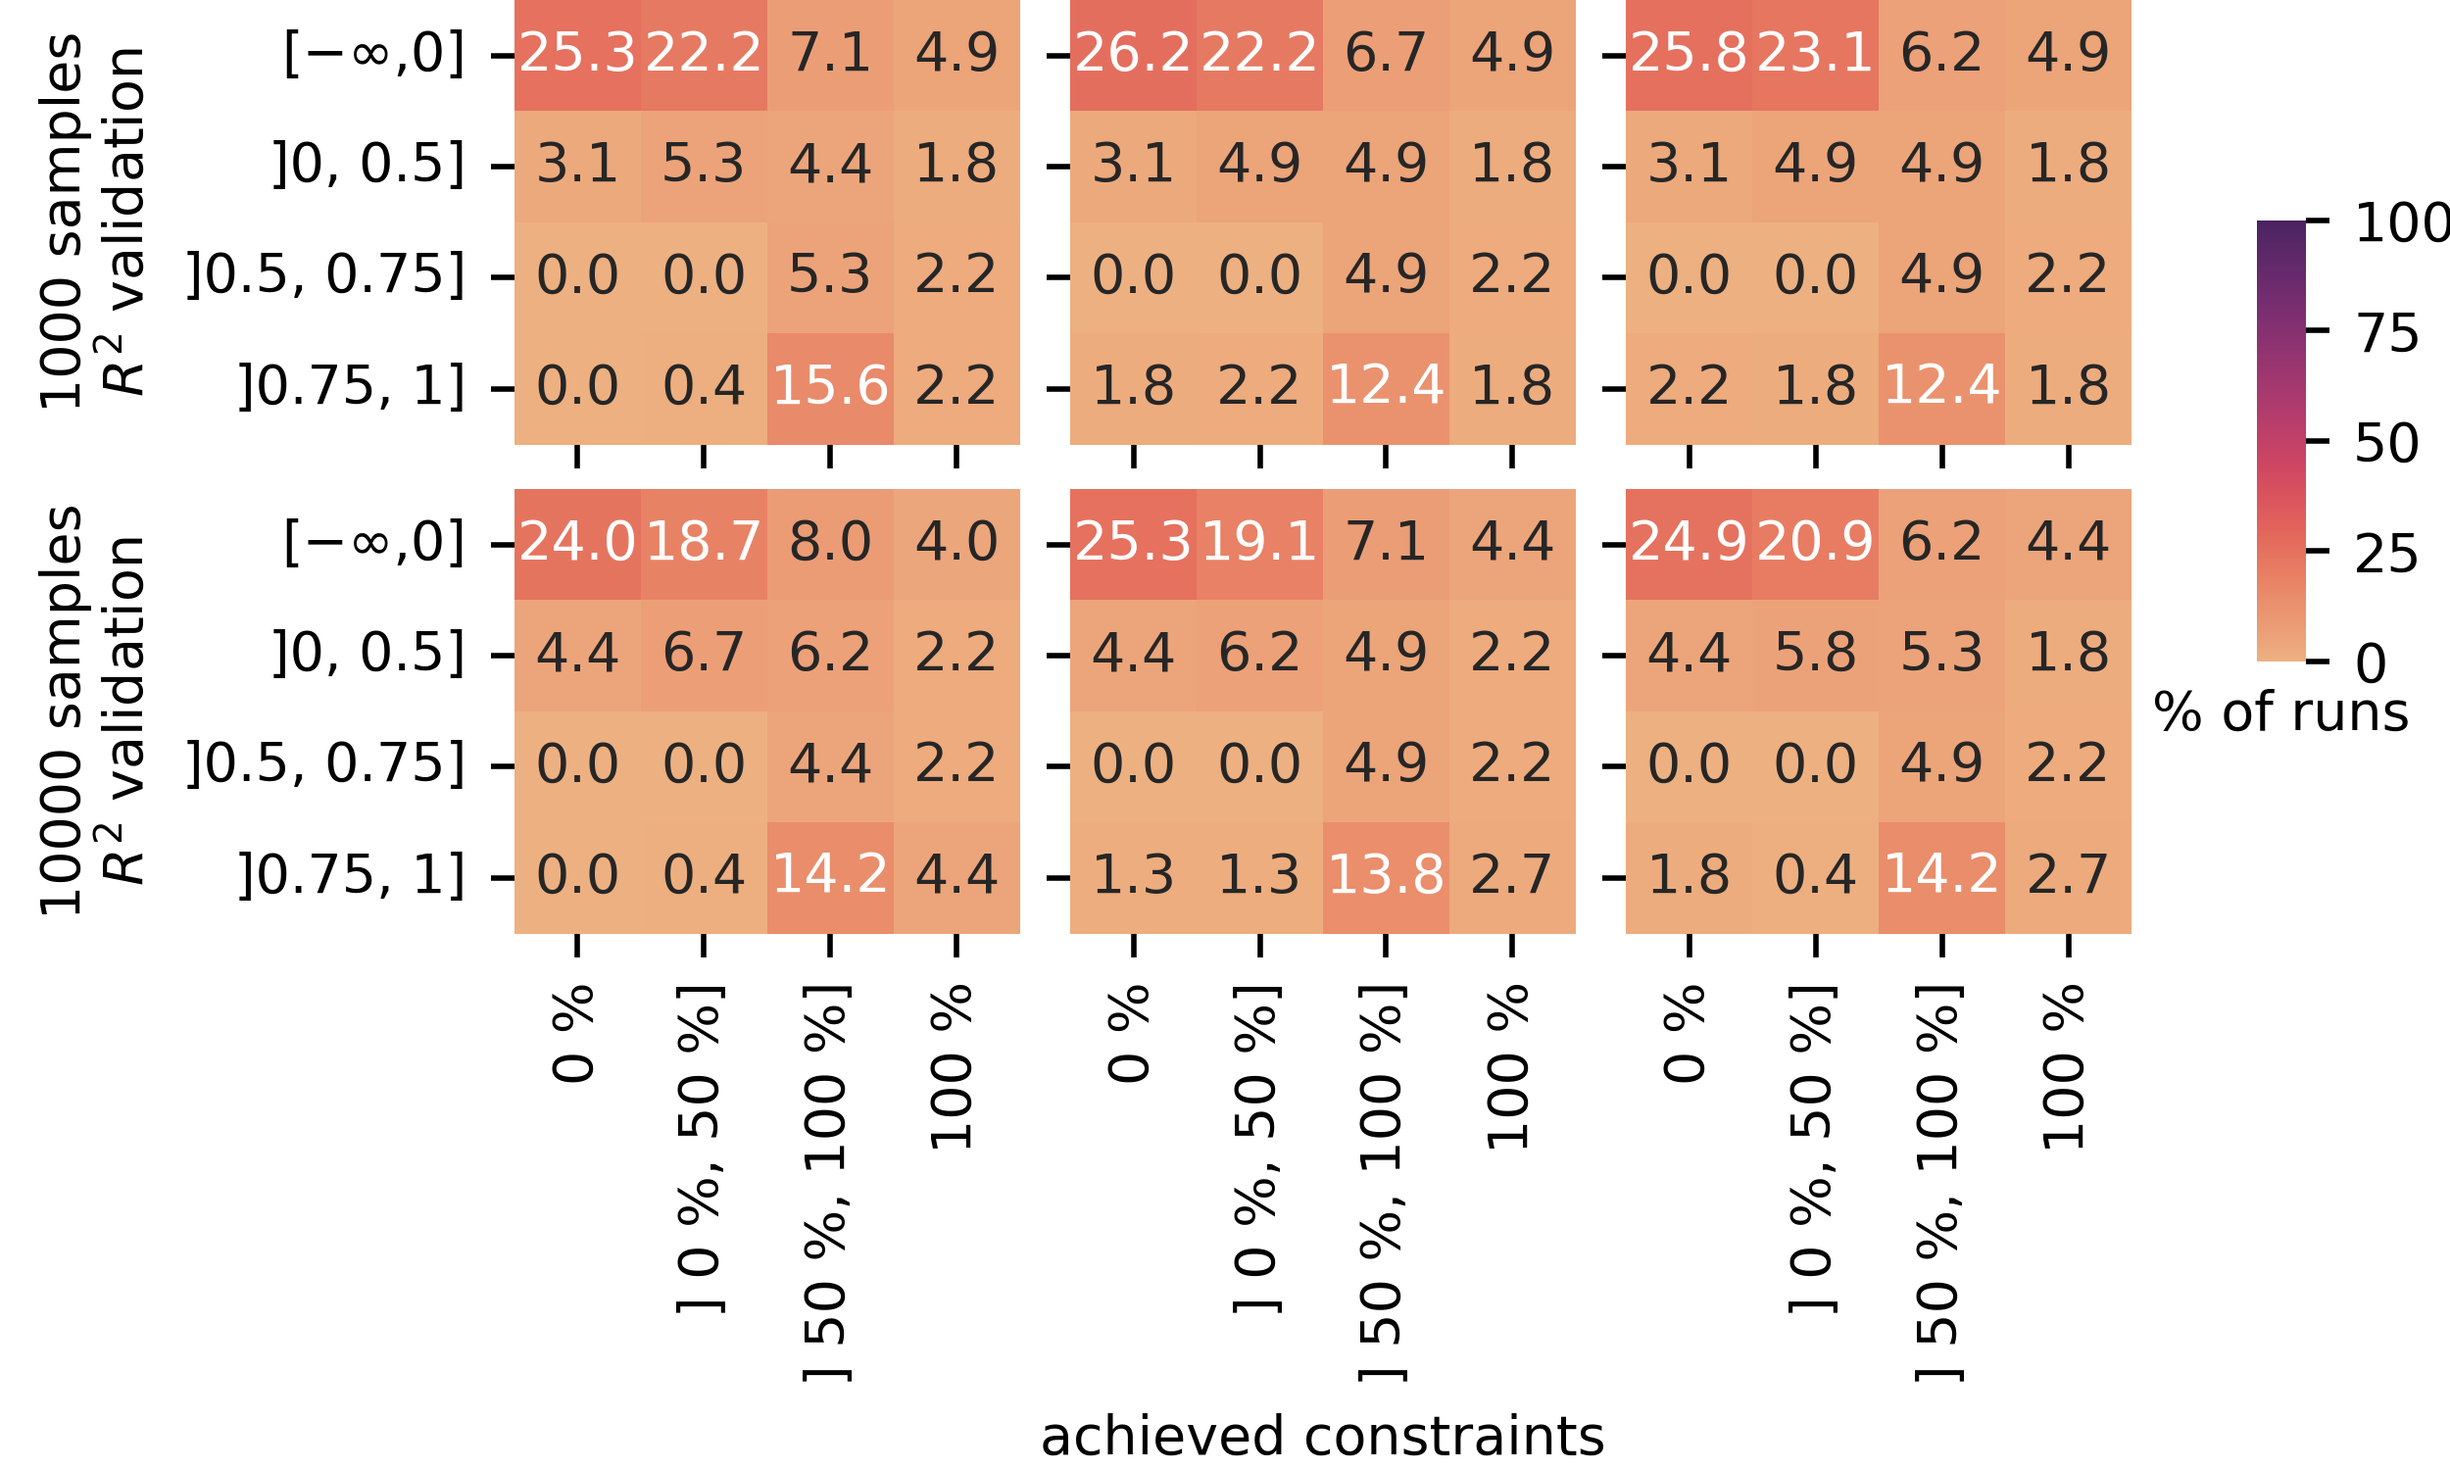
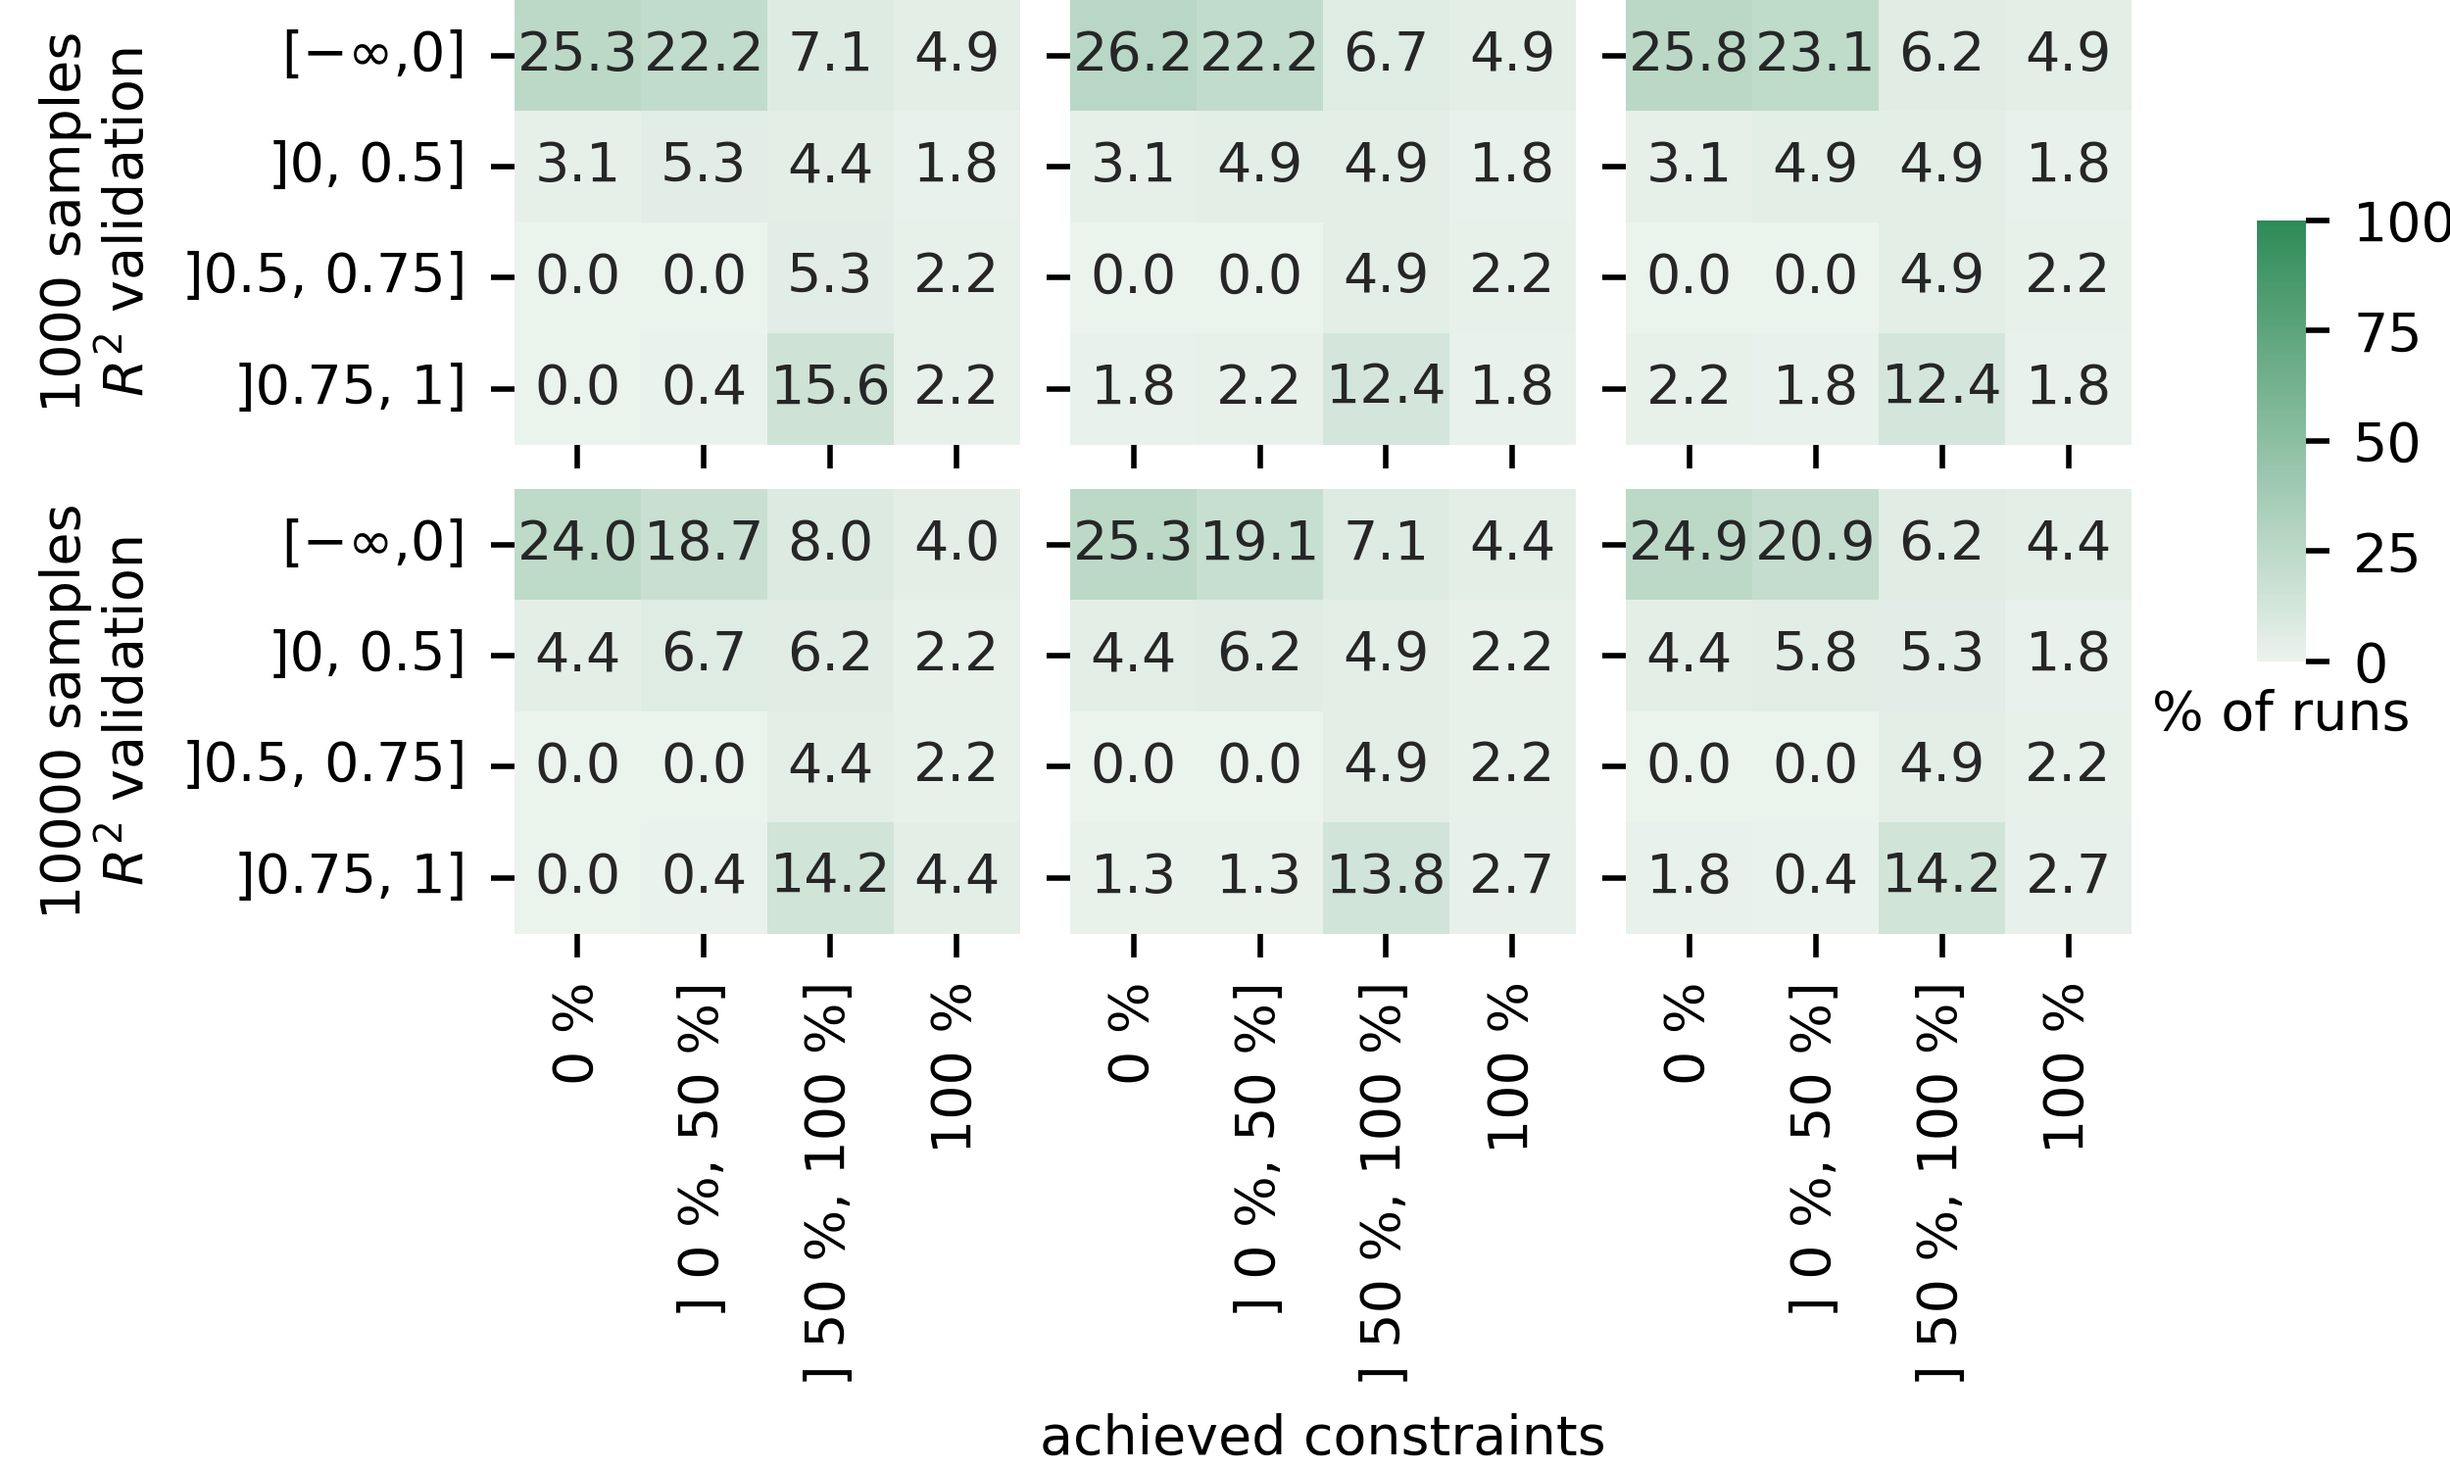
update color scheme

diff --git a/results/5-heatmap.py b/results/5-heatmap.py
@@ -71,7 +71,7 @@ results["Constraint_Score"] = pd.Categorical(results['Constraint_Score'], catego
 
 
 norm = Normalize(vmin=0, vmax=100)
-cmap = sns.color_palette("flare", as_cmap=True)
+cmap =sns.light_palette("seagreen", as_cmap=True)
 # ax.set_xlabel(f'error function width $\psi$')
 # ax.set_ylabel(f'noise level $\zeta$')
 f, ax = plt.subplots(2,3, figsize=(5, 3), sharex=True, sharey=True)
